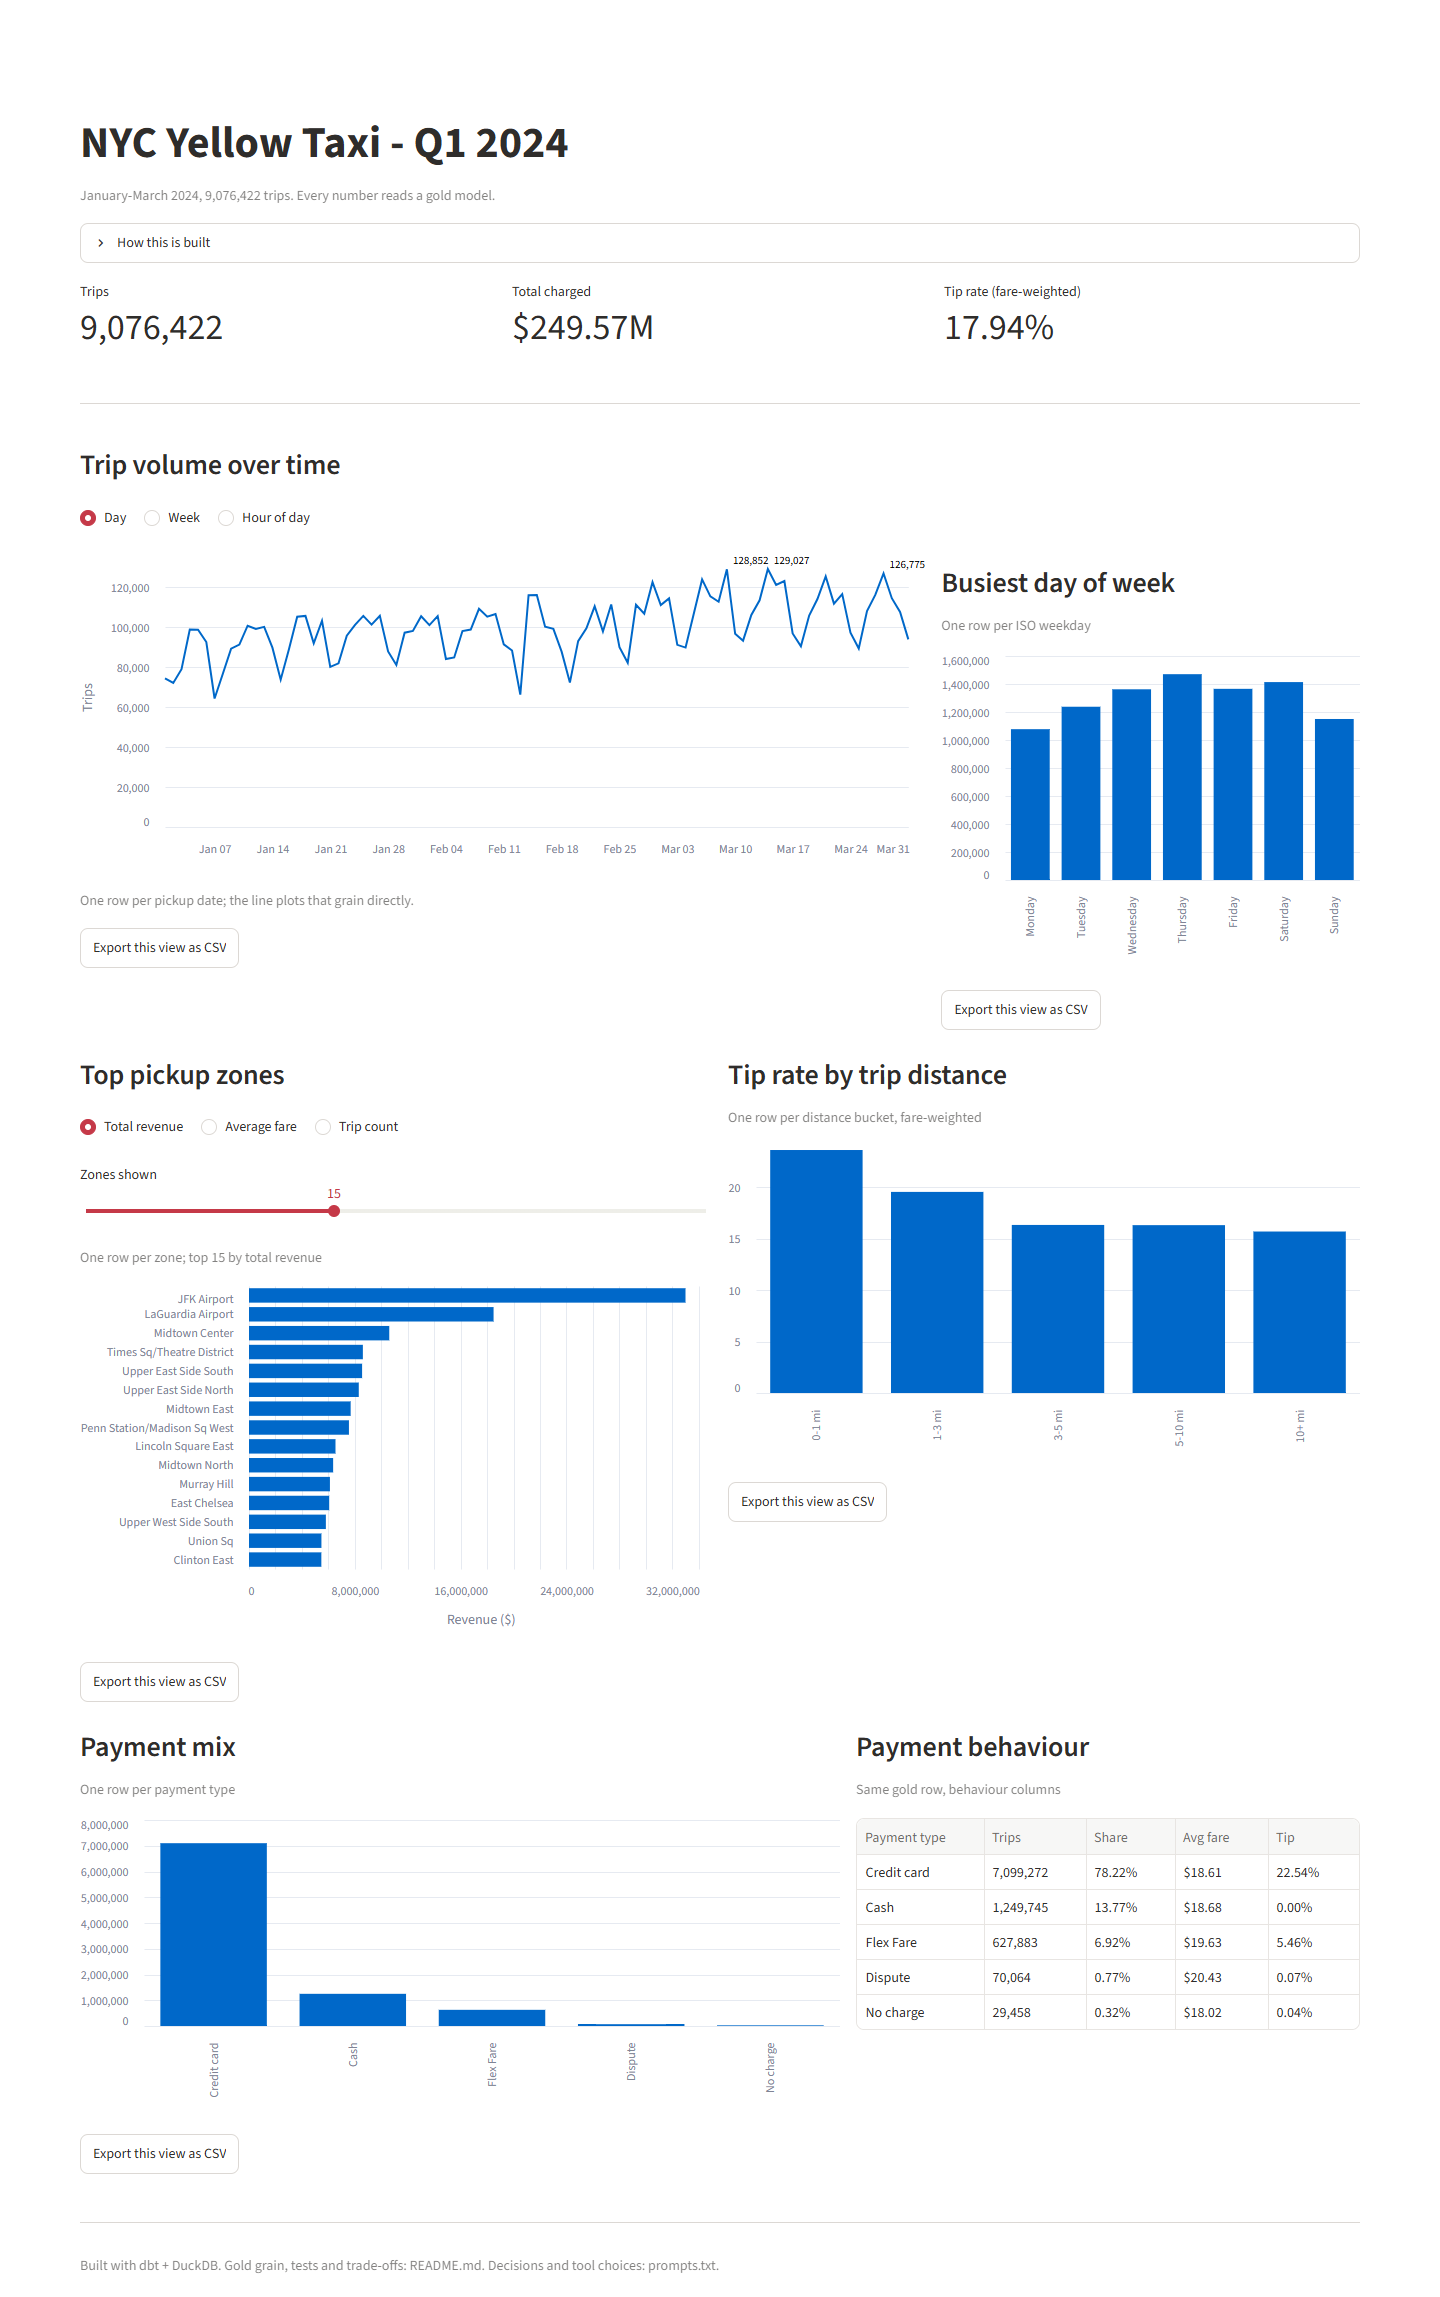
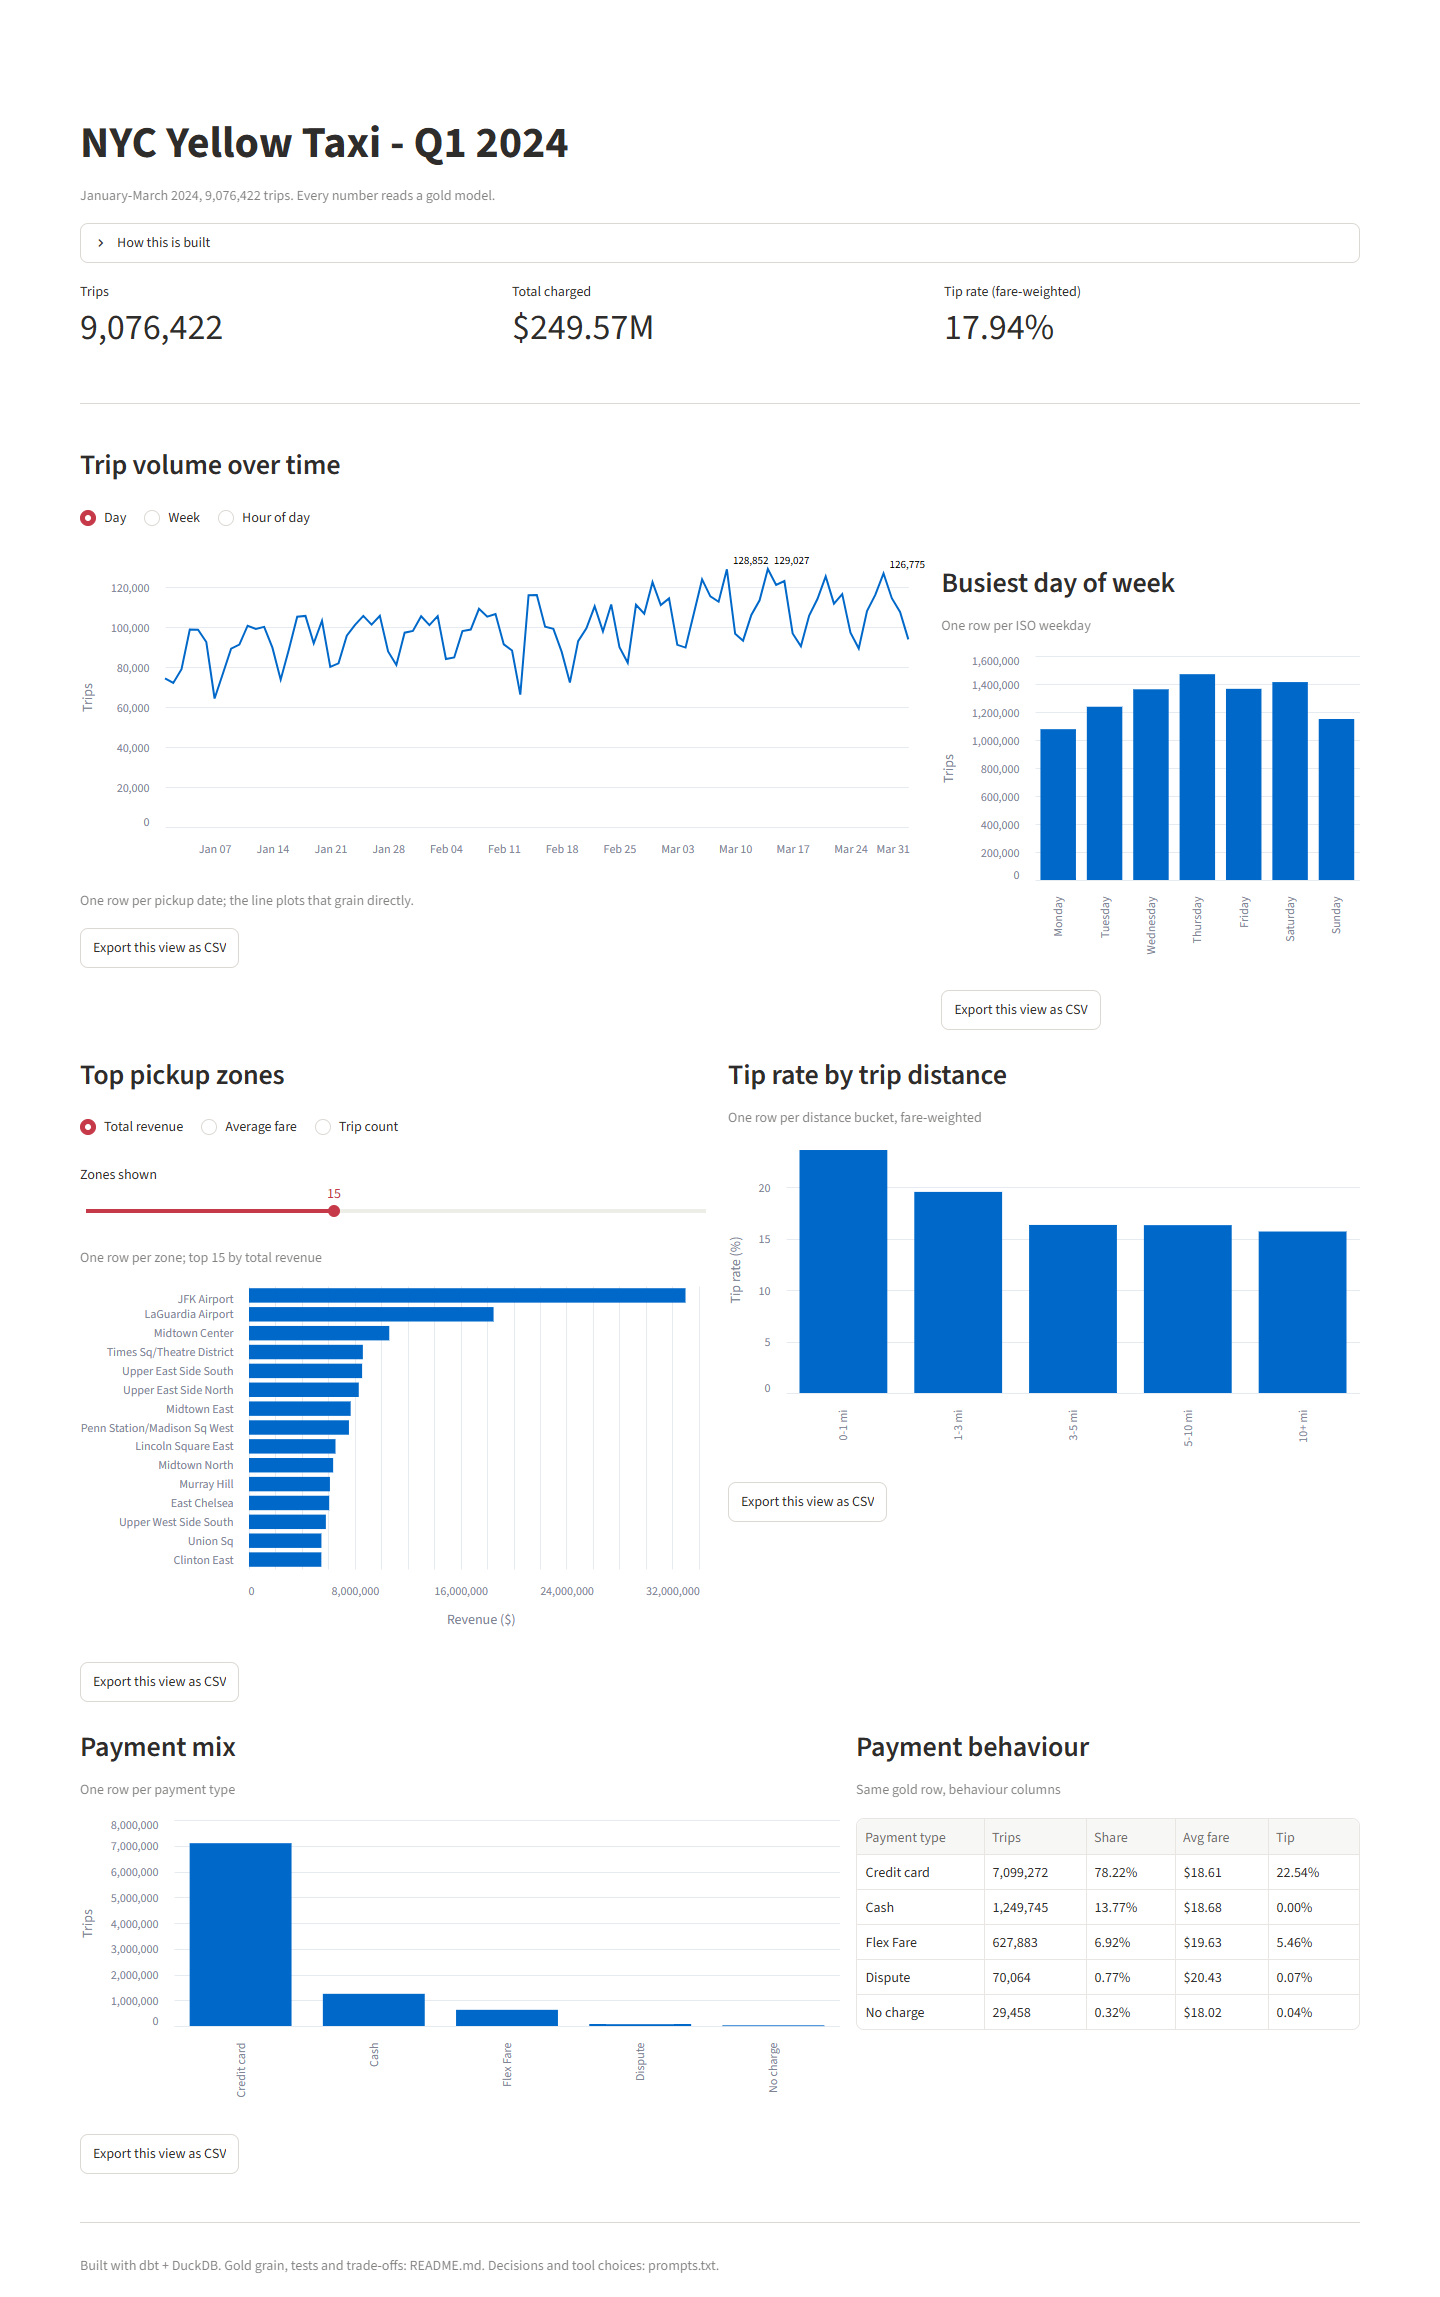
feat(app): Altair bar charts so every tooltip shows human labels

diff --git a/streamlit/app.py b/streamlit/app.py
@@ -170,7 +170,21 @@ with dow_col:
     )
     if has_rows(dow, "gld_trips_by_dow"):
         st.caption("One row per ISO weekday")
-        st.bar_chart(dow.set_index("day_name")["trip_count"], sort=False, height=320)
+        dow_order = dow.sort_values("dow_iso")["day_name"].tolist()
+        dow_chart = (
+            alt.Chart(dow)
+            .mark_bar()
+            .encode(
+                x=alt.X("day_name:N", title=None, sort=dow_order),
+                y=alt.Y("trip_count:Q", title="Trips"),
+                tooltip=[
+                    alt.Tooltip("day_name:N", title="Day"),
+                    alt.Tooltip("trip_count:Q", title="Trips", format=","),
+                ],
+            )
+            .properties(height=320)
+        )
+        st.altair_chart(dow_chart, width="stretch")
         export_csv(dow, "trips_by_day_of_week.csv", "Export this view as CSV")
 
 col1, col2 = st.columns(2)
@@ -227,7 +241,21 @@ with col2:
     st.caption("One row per distance bucket, fare-weighted")
     tips = query("select distance_bucket, tip_pct from gld_tip_behavior")
     if has_rows(tips, "gld_tip_behavior"):
-        st.bar_chart(tips.set_index("distance_bucket")["tip_pct"], sort=False, height=320)
+        tips_order = tips["distance_bucket"].tolist()
+        tips_chart = (
+            alt.Chart(tips)
+            .mark_bar()
+            .encode(
+                x=alt.X("distance_bucket:N", title=None, sort=tips_order),
+                y=alt.Y("tip_pct:Q", title="Tip rate (%)"),
+                tooltip=[
+                    alt.Tooltip("distance_bucket:N", title="Distance"),
+                    alt.Tooltip("tip_pct:Q", title="Tip rate (%)", format=".2f"),
+                ],
+            )
+            .properties(height=320)
+        )
+        st.altair_chart(tips_chart, width="stretch")
         export_csv(tips, "tip_by_distance.csv", "Export this view as CSV")
 
 col3, col4 = st.columns([3, 2])
@@ -240,7 +268,24 @@ with col3:
         "from gld_payment_analysis order by trip_count desc"
     )
     if has_rows(payments, "gld_payment_analysis"):
-        st.bar_chart(payments.set_index("payment_type")["trip_count"], sort=False, height=300)
+        pay_order = payments["payment_type"].tolist()
+        pay_chart = (
+            alt.Chart(payments)
+            .mark_bar()
+            .encode(
+                x=alt.X("payment_type:N", title=None, sort=pay_order),
+                y=alt.Y("trip_count:Q", title="Trips"),
+                tooltip=[
+                    alt.Tooltip("payment_type:N", title="Payment type"),
+                    alt.Tooltip("trip_count:Q", title="Trips", format=","),
+                    alt.Tooltip(
+                        "trip_share_pct:Q", title="Share of trips (%)", format=".2f"
+                    ),
+                ],
+            )
+            .properties(height=300)
+        )
+        st.altair_chart(pay_chart, width="stretch")
         export_csv(payments, "payment_analysis.csv", "Export this view as CSV")
 
 with col4:
